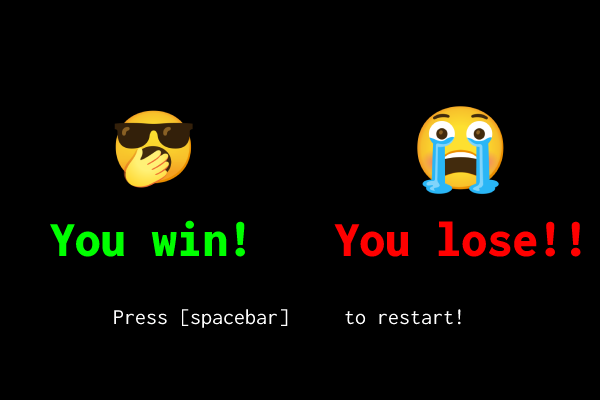
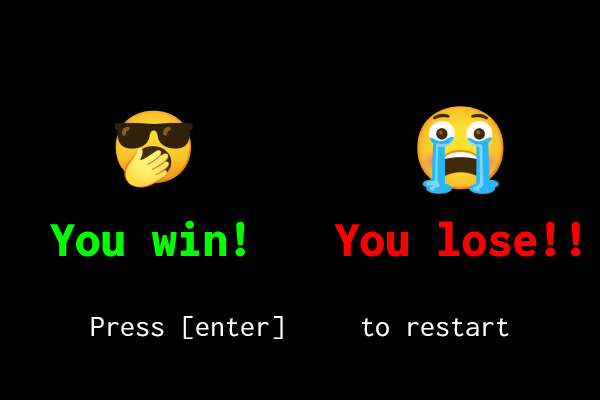
fix restart

Changed region(s): [[0.15, 0.78, 0.48, 0.87], [0.57, 0.78, 0.84, 0.84]]

diff --git a/src/todaybrian/GamePanel.java b/src/todaybrian/GamePanel.java
@@ -228,18 +228,18 @@ public class GamePanel extends JPanel implements Runnable, KeyListener {
     @Override
     public void keyPressed(KeyEvent e) {
         //Game over screen
-        if(game_over){
+        if(game_over) {
             //Press space to restart game
-            if(e.getKeyCode() == KeyEvent.VK_SPACE){
+            if (e.getKeyCode() == KeyEvent.VK_ENTER) {
                 main_menu = true; // go to main menu
+                pause_after_score = false;
                 game_over = false; // no longer game over
 
                 scoreboard.reset(); //Reset scoreboard
 
                 soundPlayer.stopSound(); //Stop game ending music
             }
-        }
-        if(main_menu || pause_after_score) {
+        } else if(main_menu || pause_after_score) {
             if (e.getKeyCode() == KeyEvent.VK_SPACE) {
                 if(main_menu){
                     soundPlayer.playSound(START_FILE);

diff --git a/src/todaybrian/Ball.java b/src/todaybrian/Ball.java
@@ -5,7 +5,7 @@ import java.awt.*;
 public class Ball extends Rectangle {
 
     public static final int BALL_DIAMETER = 20;
-    public static final int INIT_BALL_SPEED = 5;
+    public static final int INIT_BALL_SPEED = 6;
 
     public int xVelocity;
     public int yVelocity;
@@ -36,12 +36,10 @@ public class Ball extends Rectangle {
     }
 
     public void startBall(){
-        int additionalSpeed = (Main.gameFrame.gamePanel.scoreboard.getPlayer1Score() + Main.gameFrame.gamePanel.scoreboard.getPlayer2Score())/2;
-
         if(Math.random() < 0.5){
-            xVelocity = INIT_BALL_SPEED+additionalSpeed;
+            xVelocity = INIT_BALL_SPEED;
         } else {
-            xVelocity = -INIT_BALL_SPEED - additionalSpeed;
+            xVelocity = -INIT_BALL_SPEED;
         }
     }
 

diff --git a/src/todaybrian/Main.java b/src/todaybrian/Main.java
@@ -1,9 +1,7 @@
 package todaybrian;
 
 public class Main {
-
-    public static GameFrame gameFrame;
     public static void main(String[] args) {
-        gameFrame = new GameFrame();
+        new GameFrame();
     }
 }
